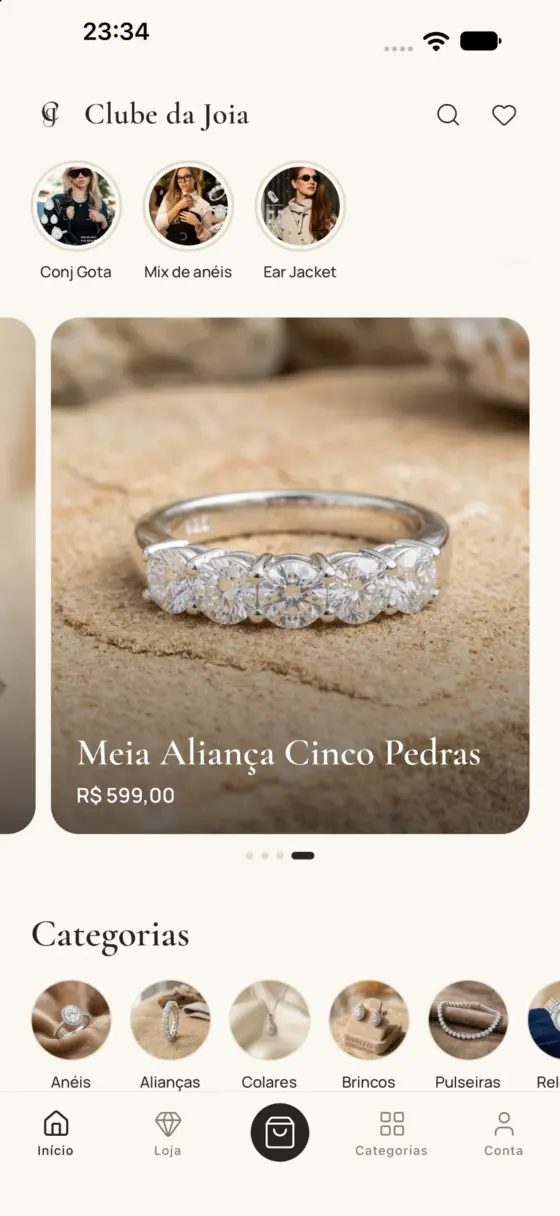
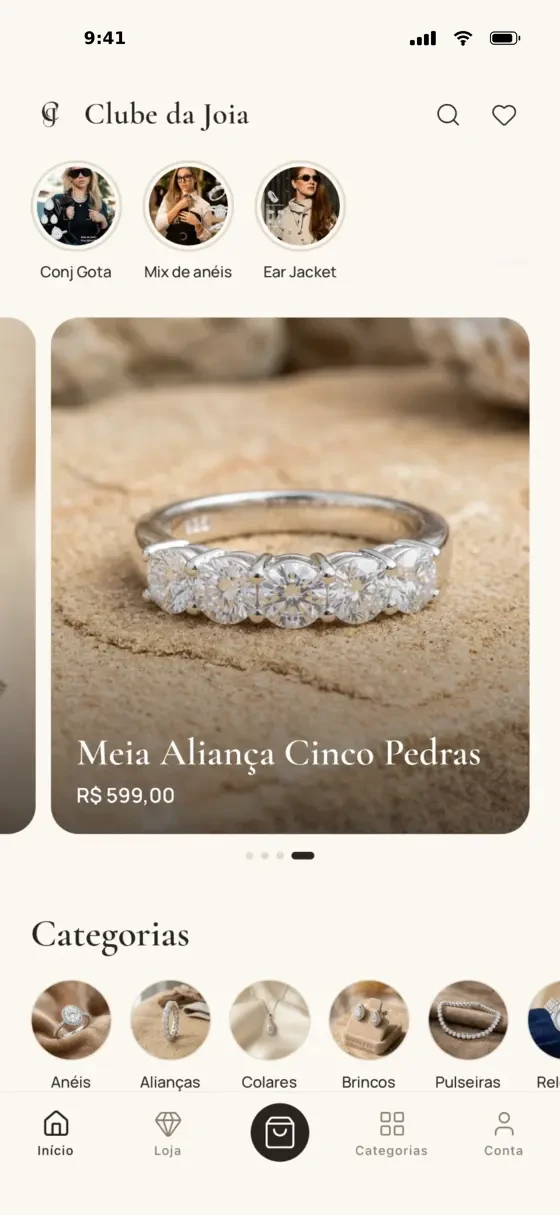
fix(ui): uniform iOS status bar baked into phone screens, refined dynamic island
Claude-Session: https://claude.ai/code/session_01EHCwJ9MiTtEHftgTEufvhe

diff --git a/src/components/ui/phone.tsx b/src/components/ui/phone.tsx
@@ -9,7 +9,8 @@ const Frame = styled.div`
   .screen { position: relative; width: 100%; height: 100%; border-radius: calc(var(--w, 240px) * 0.14); overflow: hidden; background: #fff; }
   .screen img { position: absolute; inset: 0; width: 100%; height: 100%; object-fit: cover; object-position: top; opacity: 0; transform: scale(1.04); transition: opacity 0.7s ease, transform 1.2s cubic-bezier(.2,.7,.2,1); }
   .screen img[data-on="true"] { opacity: 1; transform: none; }
-  .island { position: absolute; top: 3.2%; left: 50%; width: 27%; height: 2.6%; margin-left: -13.5%; border-radius: 99px; background: #000; z-index: 3; }
+  .island { position: absolute; top: 3.1%; left: 50%; width: 28%; height: 2.7%; margin-left: -14%; border-radius: 99px; background: #000; box-shadow: 0 0 0 1px rgba(255,255,255,0.04); z-index: 3; }
+  .island::after { content: ""; position: absolute; right: 9%; top: 50%; width: 14%; aspect-ratio: 1; transform: translateY(-50%); border-radius: 50%; background: radial-gradient(circle at 35% 35%, #2b3350, #0a0c14 70%); }
   .glare { position: absolute; inset: 0; z-index: 2; border-radius: inherit; pointer-events: none; background: linear-gradient(115deg, rgba(255,255,255,0.14), transparent 32%); }
 `;
 
